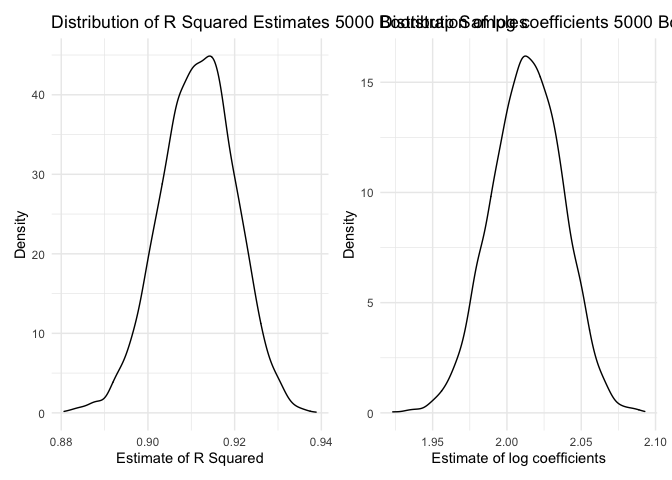
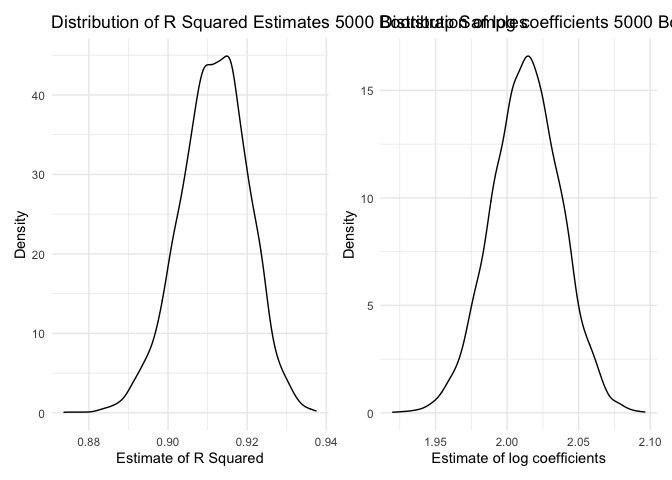
create CI for the needed variables

diff --git a/p8105_hw6_yf2563.md b/p8105_hw6_yf2563.md
@@ -422,16 +422,16 @@ final_result
     ## # A tibble: 5,000 x 3
     ##    strap_number r.squared variable2
     ##           <int>     <dbl>     <dbl>
-    ##  1            1     0.914      2.04
-    ##  2            2     0.909      2.02
-    ##  3            3     0.908      2.03
-    ##  4            4     0.922      1.99
-    ##  5            5     0.909      2.05
-    ##  6            6     0.899      2.07
-    ##  7            7     0.907      1.98
-    ##  8            8     0.899      2.03
-    ##  9            9     0.907      2.04
-    ## 10           10     0.900      2.04
+    ##  1            1     0.911      1.98
+    ##  2            2     0.918      2.02
+    ##  3            3     0.902      2.03
+    ##  4            4     0.903      2.03
+    ##  5            5     0.916      2.03
+    ##  6            6     0.909      1.97
+    ##  7            7     0.892      2.02
+    ##  8            8     0.891      2.03
+    ##  9            9     0.917      1.97
+    ## 10           10     0.918      1.99
     ## # … with 4,990 more rows
 
   - Plot the distribution of your estimates, and describe these in
@@ -471,3 +471,34 @@ variable1_plot + variable2_plot
 
 **Interpretation:** both plots follows bell-shaped, which means that
 both variables we estimated are approximate follows normal distribution
+
+  - Using the 5000 bootstrap estimates, identify the 2.5% and 97.5%
+    quantiles to provide a 95% confidence interval for 2 interested
+    variables.
+
+<!-- end list -->
+
+``` r
+final_result %>% 
+  pivot_longer(
+    r.squared : variable2,
+    names_to = "variables",
+    values_to = "value"
+  ) %>% 
+  group_by(variables) %>% 
+  summarize(
+    ci_lower = quantile(value, 0.025), 
+    ci_upper = quantile(value, 0.975))
+```
+
+    ## # A tibble: 2 x 3
+    ##   variables ci_lower ci_upper
+    ##   <chr>        <dbl>    <dbl>
+    ## 1 r.squared    0.894    0.927
+    ## 2 variable2    1.97     2.06
+
+Thus 2.5% and 97.5% quantiles:
+
+  - \(\widehat r ^2\): (0.8879076, 0.925854)
+  - \({log(\widehat \beta_0 * \widehat \beta_1)}\): (1.9729733,
+    2.052170)
